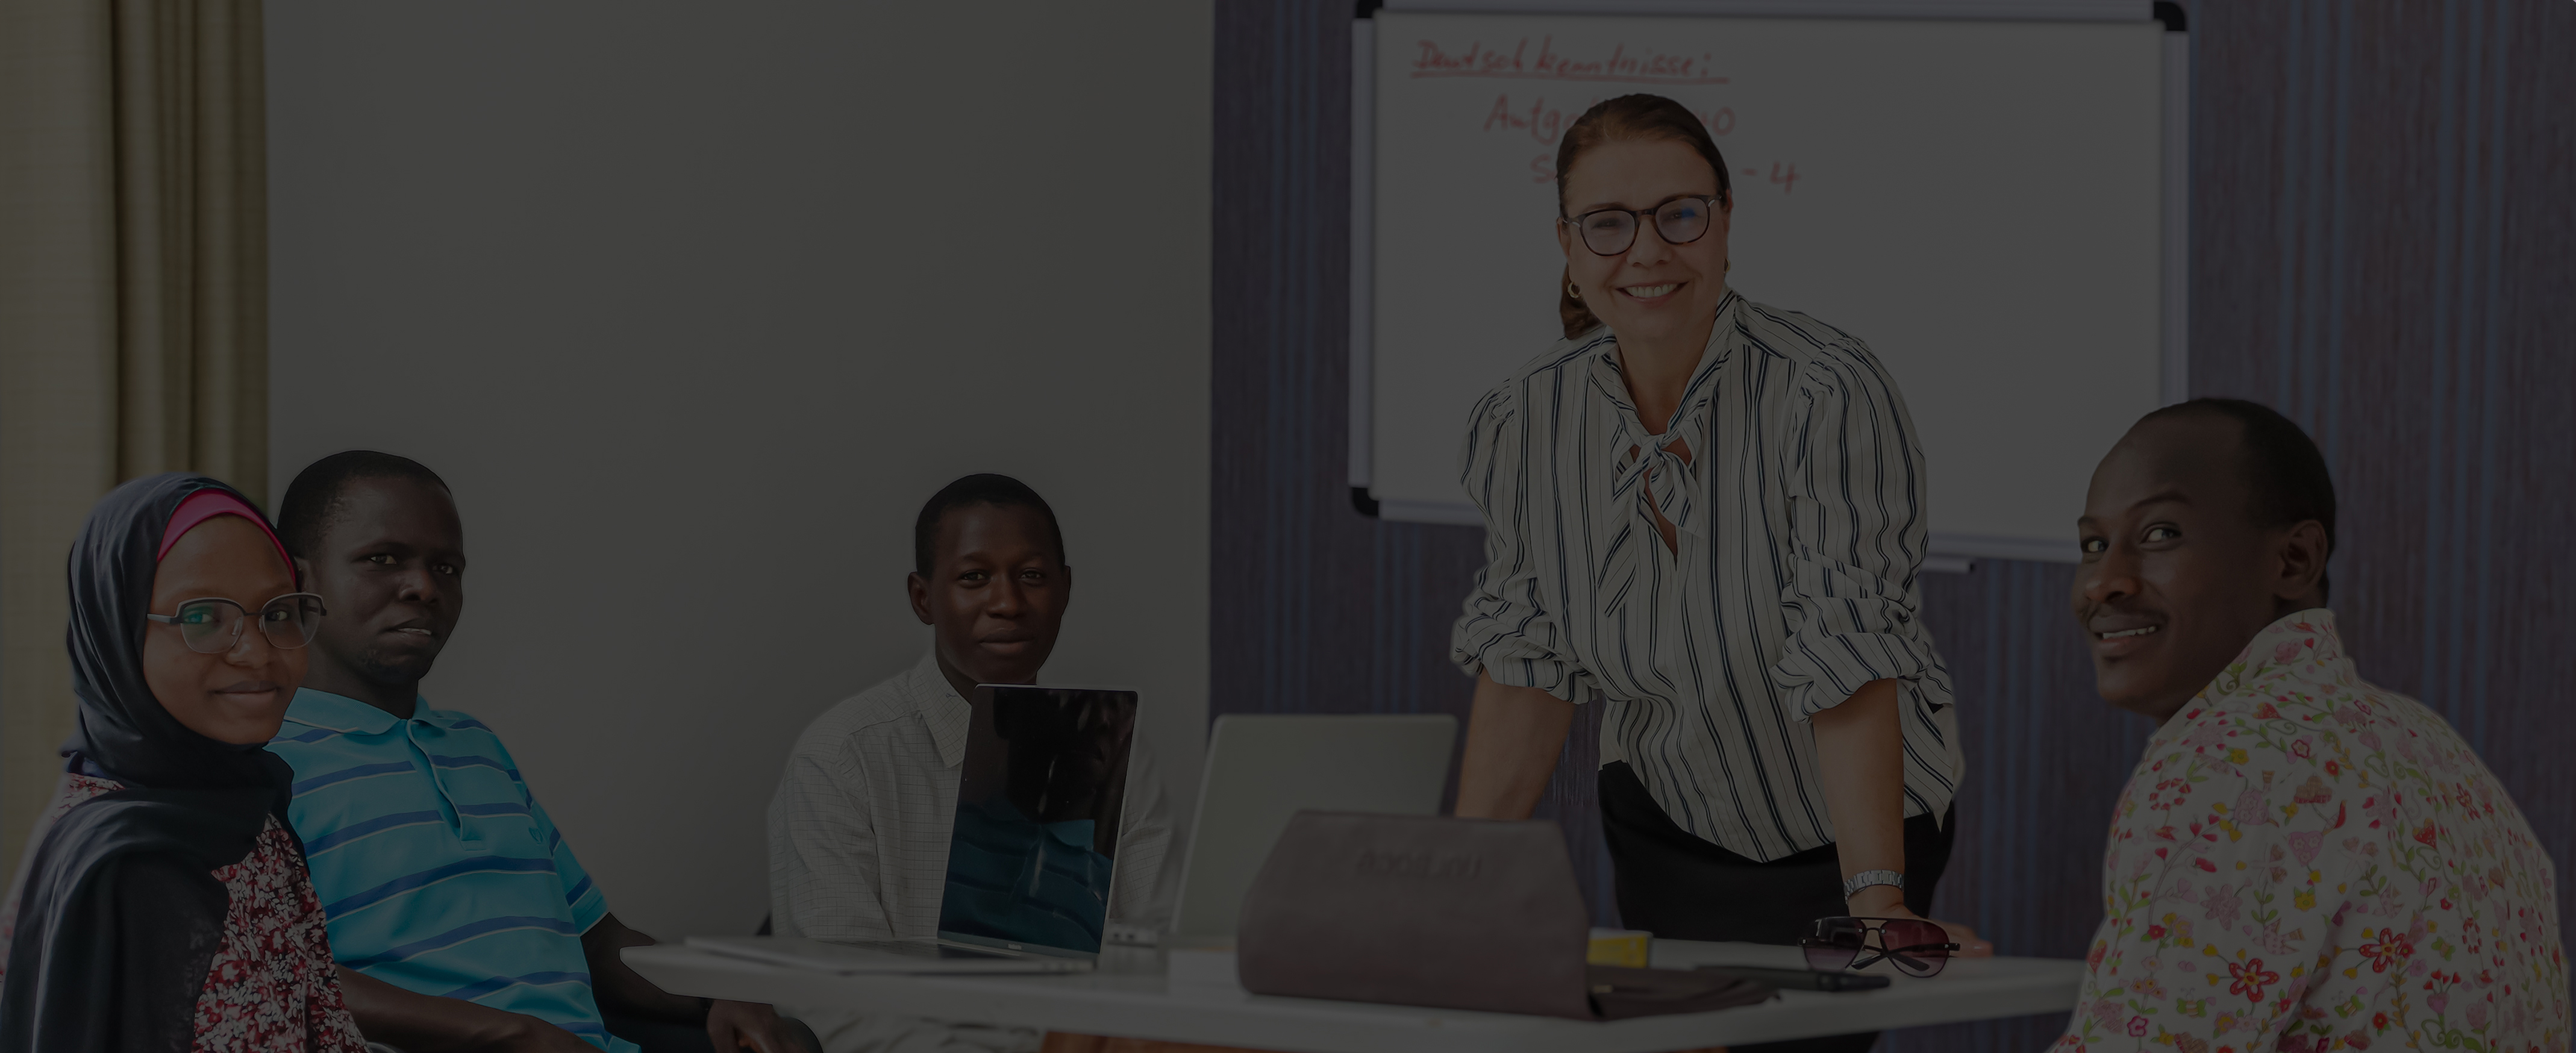
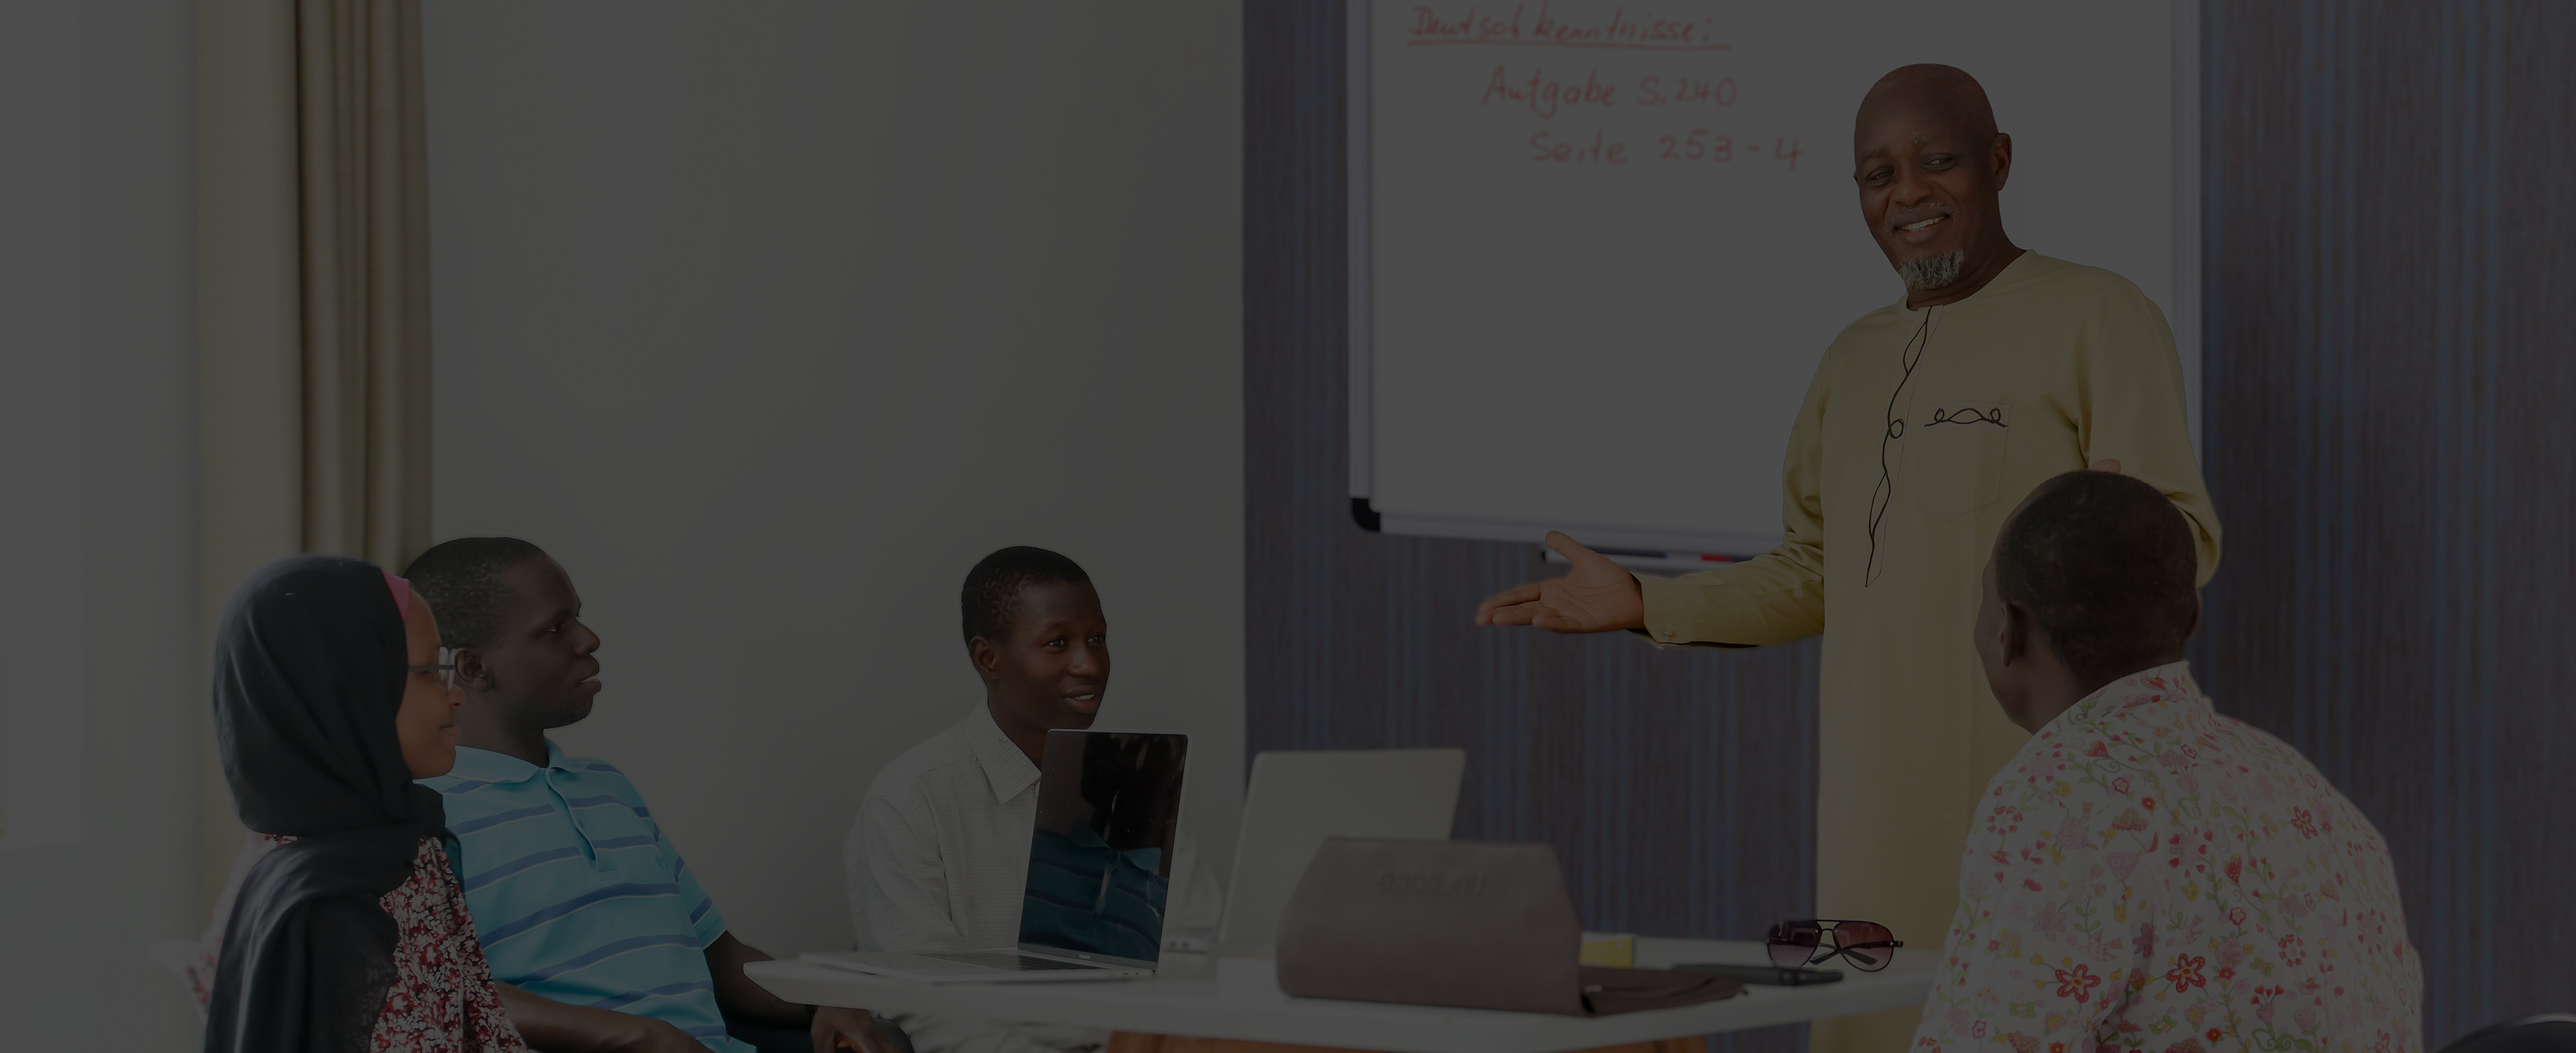
Add one more slde

diff --git a/index.html b/index.html
@@ -55,6 +55,7 @@
                 <button type="button" data-bs-target="#carouselExampleCaptions" data-bs-slide-to="0" class="active" aria-current="true" aria-label="Slide 1"></button>
                 <button type="button" data-bs-target="#carouselExampleCaptions" data-bs-slide-to="1" aria-label="Slide 2"></button>
                 <button type="button" data-bs-target="#carouselExampleCaptions" data-bs-slide-to="2" aria-label="Slide 3"></button>
+                <button type="button" data-bs-target="#carouselExampleCaptions" data-bs-slide-to="3" aria-label="Slide 4"></button>
             </div>
             <div class="carousel-inner">
                 <div class="carousel-item carousel-image bg-img-1 active">
@@ -72,6 +73,13 @@
                     </div>
                 </div>
                 <div class="carousel-item carousel-image bg-img-3">
+                    <div class="carousel-caption d-md-block">
+                        <h1>Ready to turbocharge your career or academic path? </h1>
+                        <p>Prima German Language School got you covered </p>
+                        <a href=""><button type="button" class="btn btn-warning">APPLY NOW</button></a>
+                    </div>
+                </div>
+                <div class="carousel-item carousel-image bg-img-4">
                     <div class="carousel-caption d-md-block">
                         <h1>Ready to turbocharge your career or academic path? </h1>
                         <p>Prima German Language School got you covered </p>

diff --git a/asset/bg.css b/asset/bg.css
@@ -36,6 +36,10 @@
     background-image: url(./img/slide/slide3.webp);
 }
 
+.bg-img-4 {
+    background-image: url(./img/slide/slide4.webp);
+}
+
 .carousel-image {
     height: 75vh;
     background-repeat: no-repeat;
@@ -63,6 +67,9 @@
     }
     .bg-img-3 {
         background-image: url(./img/slide/mobile-slide3.webp);
+    }
+    .bg-img-4 {
+        background-image: url(./img/slide/mobile-slide4.webp);
     }
     .carousel-image {
         height: 80vh;
